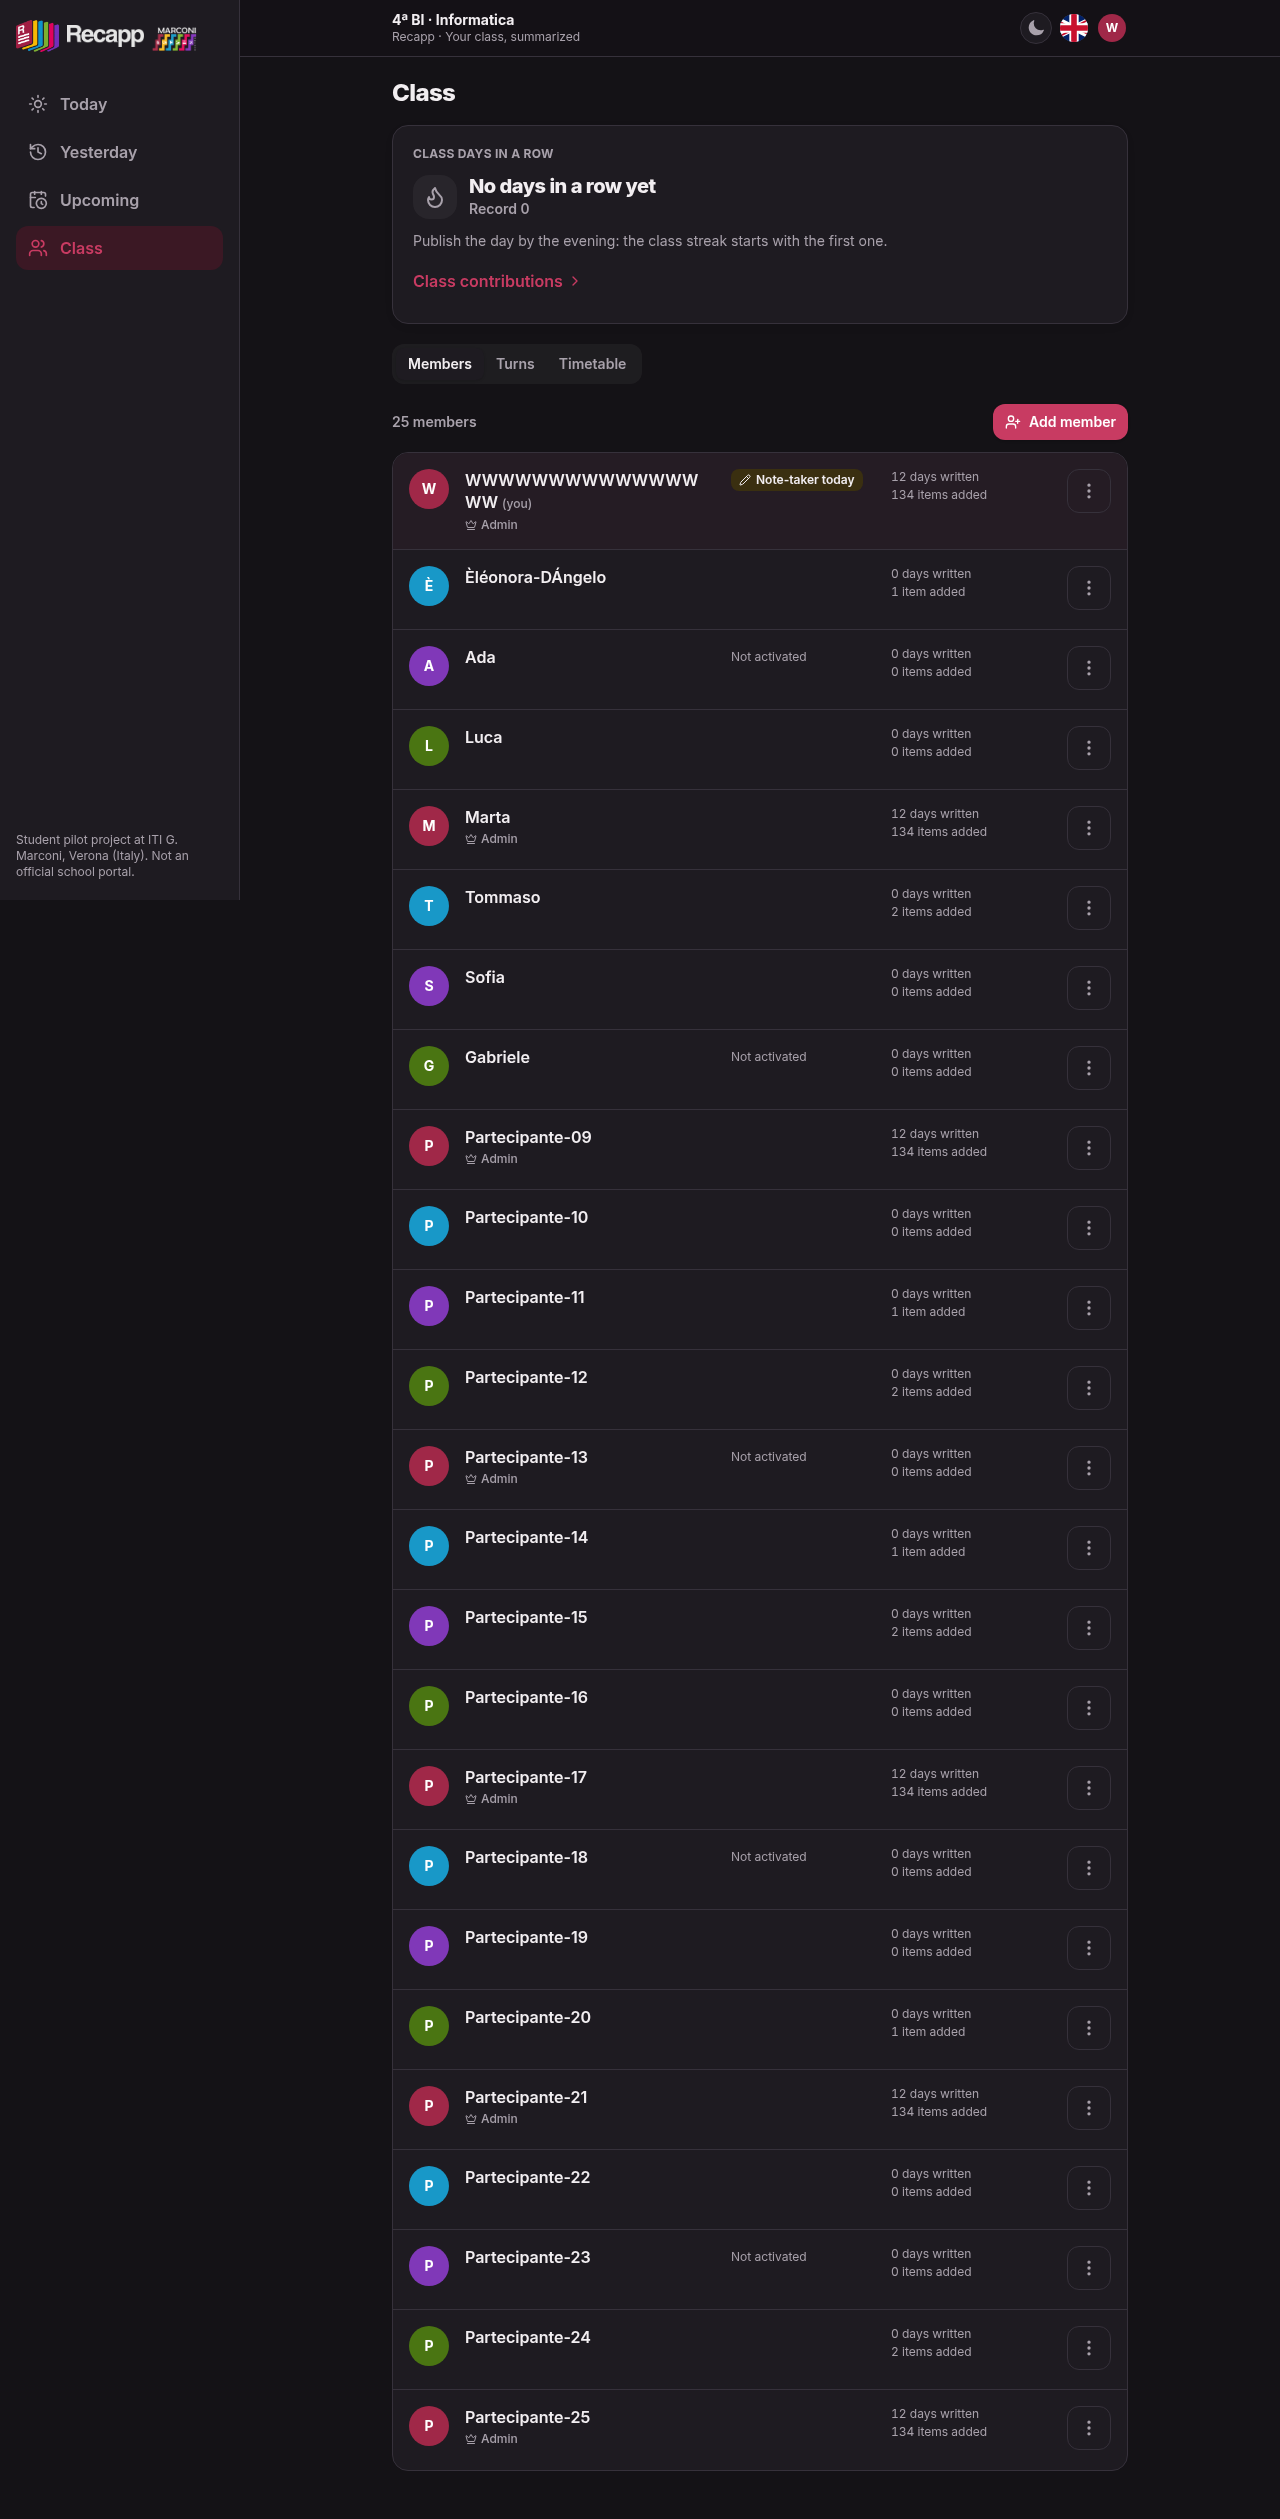
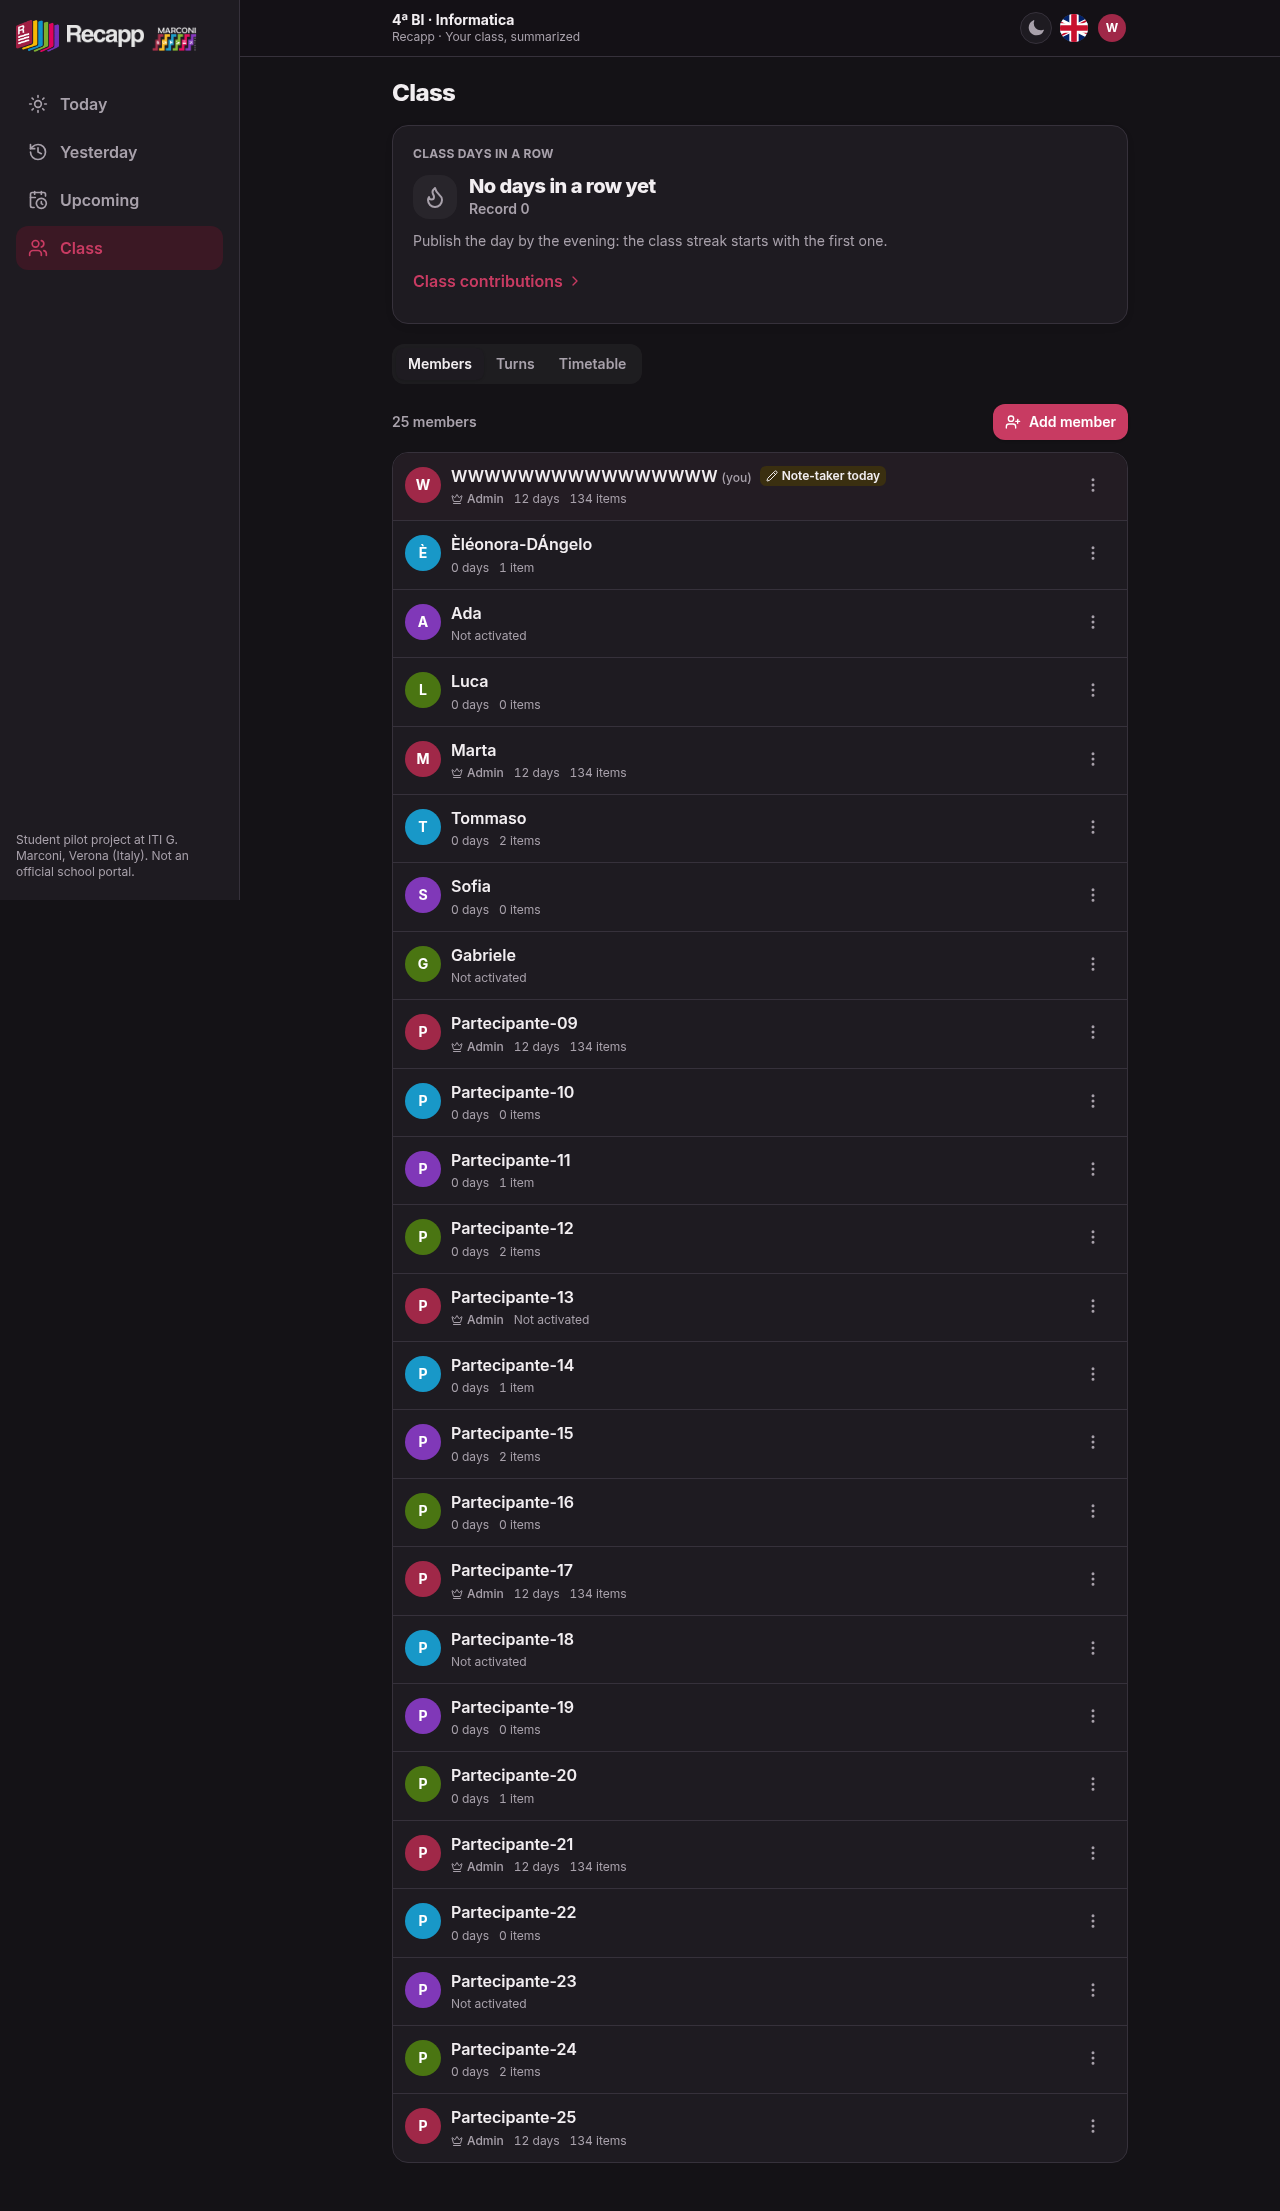
style: alleggerisci l’elenco dei partecipanti (#141)

diff --git a/web/src/pages/ClassPage.tsx b/web/src/pages/ClassPage.tsx
@@ -111,19 +111,23 @@ function Members() {
           <li key={m.id} className="member-row" data-me={m.is_me || undefined}>
             <Avatar nick={m.nick} color={m.color} />
             <div className="member-identity">
-              <p className="member-name font-semibold">
-                <span>{m.nick}</span>{' '}
-                {m.is_me && <span className="text-xs font-medium text-muted">(<span className="language-text">{t('common.you')}</span>)</span>}
-              </p>
-              {m.role === 'admin' && <p className="member-role text-xs font-medium text-muted"><Crown aria-hidden className="size-3 shrink-0" /> <span className="language-text">{t('class.admin')}</span></p>}
-            </div>
-            <div className="member-status">
-              {m.is_today_scribe && <span className="member-scribe text-xs font-semibold"><Pencil aria-hidden className="size-3 shrink-0" /> <span className="language-text">{t('class.scribe_today')}</span></span>}
-              {!m.activated && <span className="member-pending text-xs text-muted"><span className="language-text">{t('class.not_activated')}</span></span>}
-            </div>
-            <div className="member-stats text-xs text-muted">
-              <p className="language-text">{t('class.days_written', { count: m.days_written })}</p>
-              <p className="language-text">{t('class.items_added', { count: m.items_added })}</p>
+              <div className="member-heading">
+                <p className="member-name font-semibold">
+                  <span>{m.nick}</span>{' '}
+                  {m.is_me && <span className="text-xs font-medium text-muted">(<span className="language-text">{t('common.you')}</span>)</span>}
+                </p>
+                {m.is_today_scribe && <span className="member-status member-scribe text-xs font-semibold"><Pencil aria-hidden className="size-3 shrink-0" /> <span className="language-text">{t('class.scribe_today')}</span></span>}
+              </div>
+              <div className="member-details text-xs text-muted">
+                {m.role === 'admin' && <span className="member-role font-medium"><Crown aria-hidden className="size-3 shrink-0" /> <span className="language-text">{t('class.admin')}</span></span>}
+                {!m.activated && <span className="member-status member-pending language-text">{t('class.not_activated')}</span>}
+                {(m.activated || m.days_written > 0 || m.items_added > 0) && (
+                  <div className="member-stats">
+                    <p className="language-text" title={t('class.days_written', { count: m.days_written })}>{t('class.member_days', { count: m.days_written })}</p>
+                    <p className="language-text" title={t('class.items_added', { count: m.items_added })}>{t('class.member_items', { count: m.items_added })}</p>
+                  </div>
+                )}
+              </div>
             </div>
             {can_manage && (
               <button
@@ -132,13 +136,13 @@ function Members() {
                   const el = e.currentTarget
                   setMenu((cur) => (cur?.id === m.id ? null : { id: m.id, el }))
                 }}
-                className="member-menu rounded-xl border border-line text-muted hover:bg-ink/5 hover:text-ink"
+                className="member-menu rounded-full text-muted hover:bg-ink/5 hover:text-ink"
                 aria-label={t('class.manage_member', { nick: m.nick })}
                 aria-haspopup="menu"
                 aria-expanded={menu?.id === m.id}
                 aria-controls={menu?.id === m.id ? 'member-actions' : undefined}
               >
-                <MoreVertical aria-hidden className="size-5" />
+                <MoreVertical aria-hidden className="size-[18px]" />
               </button>
             )}
           </li>

diff --git a/web/tests/members-fixture.ts b/web/tests/members-fixture.ts
@@ -1,7 +1,7 @@
 import type { Page } from '@playwright/test'
 import type { ClassInfo, MemberRow } from '../src/types'
 
-export type MemberOptions = { lang?: 'it' | 'en'; width?: number; dark?: boolean; viewer?: 'member' | 'admin' | 'owner'; demo?: boolean }
+export type MemberOptions = { lang?: 'it' | 'en'; width?: number; dark?: boolean; viewer?: 'member' | 'admin' | 'owner'; demo?: boolean; naturalNames?: boolean }
 
 // Fictional identities: supported 16-character limit, Unicode and unbroken names.
 export const members: MemberRow[] = Array.from({ length: 25 }, (_, index) => ({
@@ -20,18 +20,20 @@ export const members: MemberRow[] = Array.from({ length: 25 }, (_, index) => ({
   is_me: index === 0,
 }))
 
-export async function setupMembers(page: Page, { lang = 'it', width = 390, dark = false, viewer = 'admin', demo = false }: MemberOptions = {}) {
+export async function setupMembers(page: Page, { lang = 'it', width = 390, dark = false, viewer = 'admin', demo = false, naturalNames = false }: MemberOptions = {}) {
   await page.setViewportSize({ width, height: 900 })
   await page.addInitScript(({ lang, dark }) => {
     localStorage.setItem('ieri.lang', lang)
     localStorage.setItem('ieri.theme', dark ? 'dark' : 'light')
     localStorage.setItem('ieri.simulatedNow', '2026-10-14T16:00')
   }, { lang, dark })
+  const nicknames = ['Alessandro', 'Elèonora', 'Francesco', 'Chiara', 'Nicolò', 'Matilde', 'Gabriele', 'Sofia', 'Samuele', 'Alice', 'Tommaso', 'Emma', 'Federico', 'Giulia', 'Lorenzo', 'Viola', 'Davide', 'Beatrice', 'Leonardo', 'Marta', 'Filippo', 'Rebecca', 'Andrea', 'Aurora', 'Riccardo']
+  const roster = naturalNames ? members.map((m, i) => ({ ...m, nick: nicknames[i] })) : members
   const info: ClassInfo = {
     code: 'TEST', name: '4BI', label: '4ª BI · Informatica', is_demo: demo, subjects: [], hours: [],
     viewer: {
       kind: viewer === 'owner' ? 'owner' : 'member',
-      member: viewer === 'owner' ? null : { id: 1, nick: members[0].nick, color: members[0].color, role: viewer },
+      member: viewer === 'owner' ? null : { id: 1, nick: roster[0].nick, color: roster[0].color, role: viewer },
       can_manage: viewer !== 'member', read_only: false, tour_seen: true,
     },
   }
@@ -41,13 +43,13 @@ export async function setupMembers(page: Page, { lang = 'it', width = 390, dark 
     const method = route.request().method()
     if (method !== 'GET') {
       calls.push({ method, path, body: route.request().postDataJSON() })
-      if (path.endsWith('/reset-invite')) return route.fulfill({ json: { member_id: 2, nick: members[1].nick, invite: 'TEST-ONLY', join_url: 'https://example.test/join' } })
+      if (path.endsWith('/reset-invite')) return route.fulfill({ json: { member_id: 2, nick: roster[1].nick, invite: 'TEST-ONLY', join_url: 'https://example.test/join' } })
       return route.fulfill({ json: { ok: true } })
     }
     const routes: Record<string, unknown> = {
       '/classes/TEST': info,
       '/me': viewer === 'owner' ? { kind: 'owner', owner: { username: 'test', display_name: 'Test' } } : { kind: 'member', member: info.viewer.member, classroom: info },
-      '/classes/TEST/members': { members: members.map(m => ({ ...m, is_me: viewer !== 'owner' && m.id === 1 })), can_manage: viewer !== 'member' },
+      '/classes/TEST/members': { members: roster.map(m => ({ ...m, is_me: viewer !== 'owner' && m.id === 1 })), can_manage: viewer !== 'member' },
       '/classes/TEST/contributions': {
         period: { kind: 'school_year', label: '2026/27', start: '2026-09-10', end: '2027-06-08' },
         streak: { current: 0, record: 0, has_published: false, today: '2026-10-14', days: [] },

diff --git a/web/src/index.css b/web/src/index.css
@@ -17,34 +17,26 @@
 
 @custom-variant dark (&:where(.dark, .dark *));
 
-/* Participants keep identity, temporary status and counts in their own tracks.
-   Fixed avatar/action tracks leave enlarged text free to wrap in the middle. */
-.member-list { container-type: inline-size; }
+/* Keep the name and menu aligned while metadata flows without empty tracks. */
 .member-row {
-  display: grid; grid-template-columns: 40px minmax(0, 1fr) 44px;
-  column-gap: 10px; row-gap: 6px; align-items: start;
-  min-height: 112px; padding: 14px 12px; overflow-wrap: anywhere;
+  display: grid; grid-template-columns: 36px minmax(0, 1fr) 44px;
+  column-gap: 10px; align-items: start; padding: 12px;
+  overflow-wrap: anywhere;
 }
-.member-row[data-me] { background: color-mix(in srgb, var(--color-bordeaux) 4%, var(--color-surface)); }
-.member-row > [aria-hidden] { grid-column: 1; grid-row: 1; width: 40px; height: 40px; }
-.member-identity { grid-column: 2; grid-row: 1; min-width: 0; min-height: 40px; }
-.member-name { line-height: 1.4; }
+.member-row[data-me] { background: color-mix(in srgb, var(--color-bordeaux) 3%, var(--color-surface)); }
+.member-row > [aria-hidden] { width: 36px; height: 36px; margin-top: 2px; }
+.member-identity { min-width: 0; }
+.member-heading { display: flex; flex-wrap: wrap; align-items: center; gap: 4px 8px; }
+.member-name { min-width: 0; max-width: 100%; line-height: 1.4; }
 .member-name > .text-xs { display: inline-block; }
-.member-role { display: flex; align-items: center; gap: 4px; margin-top: 3px; }
-.member-status { grid-column: 2 / 4; grid-row: 2; display: flex; flex-wrap: wrap; align-items: start; gap: 6px; min-height: 1.25rem; }
-.member-scribe { display: inline-flex; align-items: start; gap: 5px; padding: 3px 8px; border-radius: 8px; background: var(--color-giallo-soft); color: var(--color-ink); }
-.member-scribe svg { margin-top: 2px; }
-.member-pending { padding-block: 3px; }
-.member-stats { grid-column: 2 / 4; grid-row: 3; display: flex; flex-wrap: wrap; gap: 2px 12px; font-variant-numeric: tabular-nums; }
+.member-details { display: flex; flex-wrap: wrap; align-items: center; gap: 2px 10px; margin-top: 3px; line-height: 1.5; }
+.member-role { display: inline-flex; align-items: center; gap: 4px; }
+.member-scribe { display: inline-flex; align-items: center; gap: 4px; min-width: min-content; max-width: 100%; padding: 2px 6px; border-radius: 6px; background: var(--color-giallo-soft); color: var(--color-ink); }
+.member-scribe > span { min-width: 0; overflow-wrap: normal; }
+.member-stats { display: flex; flex-wrap: wrap; gap: 2px 10px; min-width: 0; font-variant-numeric: tabular-nums; }
 .member-stats > p { min-width: 0; }
-.member-menu { grid-column: 3; grid-row: 1; display: flex; align-items: center; justify-content: center; width: 44px; height: 44px; }
+.member-menu { display: flex; align-items: center; justify-content: center; width: 44px; height: 44px; margin-top: -2px; }
 .member-menu:focus-visible { outline-offset: -3px; }
-@container (min-width: 42rem) {
-  .member-row { grid-template-columns: 40px minmax(0, 1fr) minmax(0, 9rem) minmax(0, 10rem) 44px; column-gap: 16px; min-height: 80px; padding: 16px; }
-  .member-status { grid-column: 3; grid-row: 1; }
-  .member-stats { grid-column: 4; grid-row: 1; flex-direction: column; }
-  .member-menu { grid-column: 5; }
-}
 
 /* Contributi: the final layout is present throughout the short entrance/FLIP effects. */
 .contribution-enter {

diff --git a/web/tests/members.spec.ts b/web/tests/members.spec.ts
@@ -15,6 +15,17 @@ if (capture) for (const width of [320, 390, 1280]) for (const dark of [false, tr
   })
 }
 
+if (capture) for (const width of [390, 1280]) {
+  test(`capture everyday nicknames ${width}px`, async ({ page }) => {
+    await setupMembers(page, { width, naturalNames: true })
+    await page.goto('/c/TEST/classe')
+    await expect(page.getByText('25 partecipanti', { exact: true })).toBeVisible()
+    await page.evaluate(() => document.fonts.ready)
+    await page.locator('main ul').last().evaluate(el => scrollTo(0, el.getBoundingClientRect().top + scrollY - 130))
+    await page.screenshot({ animations: 'disabled', path: `../docs/screenshots/issue-141/${capture}/${width}-usage-it.png` })
+  })
+}
+
 if (!capture) {
   for (const width of [320, 390, 1280]) for (const dark of [false, true]) for (const lang of ['it', 'en'] as const) for (const scale of [1, 2]) {
     test(`25 participants: ${width}px ${dark ? 'dark' : 'light'} ${lang} ${scale * 100}% text`, async ({ page }) => {
@@ -57,13 +68,18 @@ if (!capture) {
         nameY: el.querySelector('.member-name')!.getBoundingClientRect().top - el.getBoundingClientRect().top,
         action: el.querySelector('button')!.getBoundingClientRect().left,
         actionY: el.querySelector('button')!.getBoundingClientRect().top - el.getBoundingClientRect().top,
-        stats: el.querySelector('.member-stats')!.getBoundingClientRect().left,
       })))
       for (const position of positions) expect(position).toEqual(positions[0])
+      // An ordinary participant must not reserve space for absent roles or statuses.
+      if (scale === 1) {
+        expect((await rows.nth(3).boundingBox())!.height).toBeLessThanOrEqual(76)
+        expect((await list.boundingBox())!.height).toBeLessThan(2100)
+      }
       await expect(rows.first().locator('.member-role')).toHaveText('Admin')
       await expect(rows.first().locator('.member-status')).toContainText(lang === 'it' ? 'Verbalista oggi' : 'Note-taker today')
       await expect(rows.nth(2).locator('.member-status')).toHaveText(lang === 'it' ? 'Non attivato' : 'Not activated')
-      await expect(rows.nth(2).locator('.member-stats')).toContainText(lang === 'it' ? '0 giornate scritte' : '0 days written')
+      await expect(rows.nth(2).locator('.member-stats')).toHaveCount(0)
+      await expect(rows.nth(3).locator('.member-stats')).toContainText(lang === 'it' ? '0 giornate' : '0 days')
       await expect(list.locator('[data-me]')).toHaveCount(1)
       // The last participant must still be reachable after scrolling a long class.
       await rows.last().getByRole('button').focus()

diff --git a/web/tests/README.md b/web/tests/README.md
@@ -138,7 +138,7 @@ The final lighter presentation is captured in `docs/screenshots/issue-101/refine
 
 ## Participants layout (issue #141)
 
-`members.spec.ts` opens the real Class route and AppShell with deterministic HTTP responses for 25 fictional participants. It checks every combination of 320/390/1280px, Italian/English, light/dark and 100%/200% root text size, with reduced motion. Text ranges must stay inside their row without overlapping other text or the 44px action targets; name, statistics and menu positions must remain aligned. It covers Admin, today's note-taker, the viewer, pending activation and zero counters, scrolling to the last participant, keyboard entry and Escape focus restoration, the member/admin/school action matrix in official/demo classes, and confirmation before mutations targeting the correct participant.
+`members.spec.ts` opens the real Class route and AppShell with deterministic HTTP responses for 25 fictional participants. It checks every combination of 320/390/1280px, Italian/English, light/dark and 100%/200% root text size, with reduced motion. Text ranges must stay inside their row without overlapping other text or the 44px action targets; name and menu positions must remain aligned while metadata wraps naturally. Density checks prevent ordinary rows from reserving space for absent states. It covers Admin, today's note-taker, the viewer, pending activation and zero counters, scrolling to the last participant, keyboard entry and Escape focus restoration, the member/admin/school action matrix in official/demo classes, and confirmation before mutations targeting the correct participant.
 
 ```sh
 PLAYWRIGHT_CHROMIUM_EXECUTABLE_PATH=/usr/bin/chromium npx playwright test --config playwright.members.config.ts

diff --git a/docs/screenshots/issue-141/README.md b/docs/screenshots/issue-141/README.md
@@ -8,6 +8,8 @@ Il browser condiviso del workspace ha restituito `BrowserHostUnavailable`; le im
 
 ## Prima e dopo
 
+Le viste con nickname comuni mostrano la densità nell’uso quotidiano, scorrendo fino all’elenco con gli stessi controlli visibili: [telefono prima](before/390-usage-it.png), [telefono dopo](after/390-usage-it.png), [desktop prima](before/1280-usage-it.png), [desktop dopo](after/1280-usage-it.png). La matrice sotto mantiene i nomi alla massima lunghezza per verificare i casi più impegnativi.
+
 | Viewport | Tema | Lingua | Prima | Dopo |
 | --- | --- | --- | --- | --- |
 | 320 px | light | it | [Prima](before/320-light-it.png) | [Dopo](after/320-light-it.png) |
